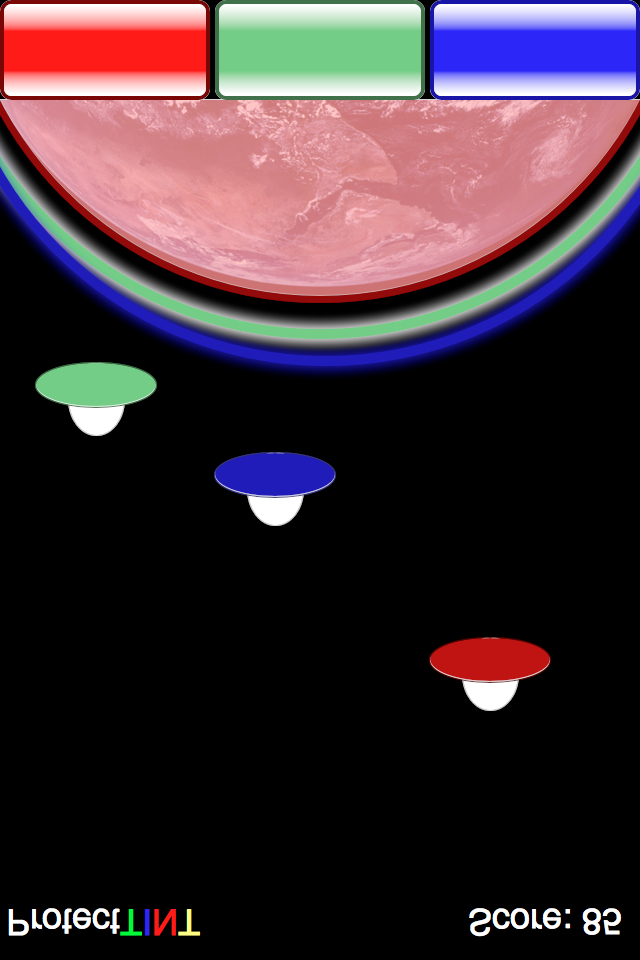
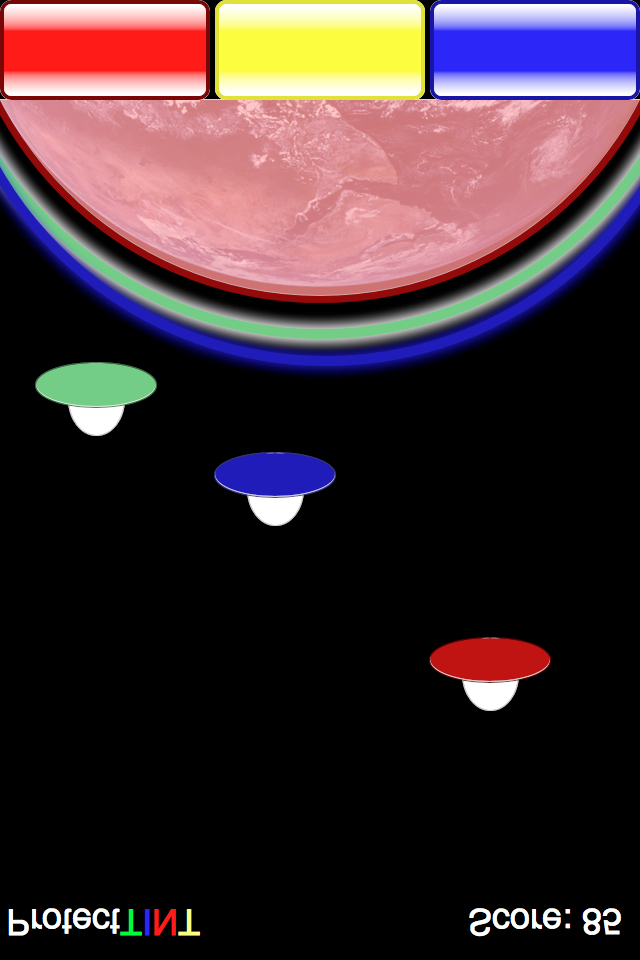
Dapple-style Chording/Color Mixing

Changed region(s): [[0.3125, 0.0, 0.6875, 0.125]]

diff --git a/Classes/GravityBelt.m b/Classes/GravityBelt.m
@@ -12,7 +12,7 @@
 
 @implementation GravityBelt
 
-@synthesize ships, shields, blueButtondown, greenButtondown, redButtondown, currentShield;
+@synthesize ships, shields, blueButtondown, yellowButtondown, redButtondown, currentShield;
 
 -(id)initWithLayer:(CCLayer*)l
 {
@@ -22,7 +22,7 @@
 		layer = l;
 		ships = [[NSMutableArray alloc] init];
 		blueButtondown=NO;
-		greenButtondown=NO;
+		yellowButtondown=NO;
 		redButtondown=NO;
 		currentShield=nil;
 	}
@@ -112,31 +112,26 @@
 -(BOOL)checkForCollision {
 	
 	//Check to see if there is an active shield
-	ShieldSprite *activeShield = (ShieldSprite*) [layer getChildByTag:100];
-	if (activeShield==nil) {
-		activeShield = (ShieldSprite*) [layer getChildByTag:101];
-	}
-	if (activeShield==nil) {
-		activeShield = (ShieldSprite*) [layer getChildByTag:102];
-	}	
-	if (activeShield==nil) {
+	
+	if (self.currentShield==nil) {
 		//TODO: Check for an Earth collision here. but for now we only care about shields
 		return NO;
 	}
 	
-	CGRect targetRect = [self getSpriteBounds:activeShield];
-	NSUInteger value = (activeShield.tag-100);
+	CGRect targetRect = [self getSpriteBounds:self.currentShield];
+	NSUInteger value = (self.currentShield.tag-100);
 	
 	for(NSUInteger i = 0; i < [self.ships count]; i++) {
 		ShipSprite* ship = (ShipSprite*) [self ShipAt:i];
 		CGRect ShipRect = [self getSpriteBounds:ship];
 		
 		if(!CGRectIsNull(CGRectIntersection(targetRect, ShipRect))) {
+			//NSLog(@"Comparing Shield color %d with ship color %d",value, ship.tag);
 			if(ship.tag == value) {
 				[ship stopAllActions];
 				[self removeShip:ship];
 				
-				CGSize contentSize = [activeShield contentSize];
+				CGSize contentSize = [self.currentShield contentSize];
 				
 				id move1 = [CCMoveBy actionWithDuration:0.5 position:ccp(contentSize.width, 0.0)];
 				id delShip = [CCCallFuncN actionWithTarget:self selector:@selector(deleteShip:)];
@@ -159,29 +154,35 @@
 -(void) displayShield {
 	if (self.currentShield) {
 		[layer removeChild:self.currentShield cleanup:YES];
+		self.currentShield=nil;
 	}
-	if (self.greenButtondown && !self.blueButtondown && !self.redButtondown) {
-		[self setCurrentShield:[shields objectAtIndex:kCGreenColor]];
-	} else if (!self.greenButtondown && self.blueButtondown && !self.redButtondown) {
-		[self setCurrentShield:[shields objectAtIndex:kCBlueColor]];
-	} else if (!self.greenButtondown && !self.blueButtondown && self.redButtondown) {
-		[self setCurrentShield:[shields objectAtIndex:kCRedColor]];
-	} else if (!self.greenButtondown && self.blueButtondown && self.redButtondown) {
-		[self setCurrentShield:[shields objectAtIndex:kCPurpleColor]];
-	} else if (self.greenButtondown && self.blueButtondown && !self.redButtondown) {
+	if (self.yellowButtondown && !self.blueButtondown && !self.redButtondown) {
 		[self setCurrentShield:[shields objectAtIndex:kCYellowColor]];
-	} else if (self.greenButtondown && !self.blueButtondown && self.redButtondown) {
+		[layer addChild:self.currentShield z:2 tag:(kCShieldOffset + kCYellowColor)];
+	} else if (!self.yellowButtondown && self.blueButtondown && !self.redButtondown) {
+		[self setCurrentShield:[shields objectAtIndex:kCBlueColor]];
+		[layer addChild:self.currentShield z:2 tag:(kCShieldOffset + kCBlueColor)];
+	} else if (!self.yellowButtondown && !self.blueButtondown && self.redButtondown) {
+		[self setCurrentShield:[shields objectAtIndex:kCRedColor]];
+		[layer addChild:self.currentShield z:2 tag:(kCShieldOffset + kCRedColor)];
+	} else if (!self.yellowButtondown && self.blueButtondown && self.redButtondown) {
+		[self setCurrentShield:[shields objectAtIndex:kCPurpleColor]];
+		[layer addChild:self.currentShield z:2 tag:(kCShieldOffset + kCPurpleColor)];
+	} else if (self.yellowButtondown && self.blueButtondown && !self.redButtondown) {
+		[self setCurrentShield:[shields objectAtIndex:kCGreenColor]];
+		[layer addChild:self.currentShield z:2 tag:(kCShieldOffset + kCGreenColor)];
+	} else if (self.yellowButtondown && !self.blueButtondown && self.redButtondown) {
 		[self setCurrentShield:[shields objectAtIndex:kCOrangeColor]];
+		[layer addChild:self.currentShield z:2 tag:(kCShieldOffset + kCOrangeColor)];
 	} 
-	[layer addChild:self.currentShield];
 }
 
 
 -(void) buttonDownForButton:(NSInteger) button {
 	if (button==kCBlueColor) {
 		self.blueButtondown=YES;
-	} else if (button==kCGreenColor) {
-		self.greenButtondown=YES;
+	} else if (button==kCYellowColor) {
+		self.yellowButtondown=YES;
 	} else if (button==kCRedColor) {
 		self.redButtondown=YES;
 	}
@@ -191,8 +192,8 @@
 -(void) buttonUpForButton:(NSInteger) button {
 	if (button==kCBlueColor) {
 		self.blueButtondown=NO;
-	} else if (button==kCGreenColor) {
-		self.greenButtondown=NO;
+	} else if (button==kCYellowColor) {
+		self.yellowButtondown=NO;
 	} else if (button==kCRedColor) {
 		self.redButtondown=NO;
 	}

diff --git a/Classes/BlueMarbleScene.m b/Classes/BlueMarbleScene.m
@@ -60,7 +60,7 @@
 		CCSprite * earth = [CCSprite spriteWithFile:@"Earth.png"]; [earth setTag:360]; //it's a sphere
 		ButtonSprite * blueButton = [ButtonSprite spriteWithFile:@"BlueButton.png"]; [blueButton setTag:kCBlueColor];
 		ButtonSprite * redButton = [ButtonSprite spriteWithFile:@"RedButton.png"];[redButton setTag:kCRedColor];;
-		ButtonSprite * greenButton = [ButtonSprite spriteWithFile:@"GreenButton.png"];[greenButton setTag:kCGreenColor];;
+		ButtonSprite * yellowButton = [ButtonSprite spriteWithFile:@"YellowButton.png"];[yellowButton setTag:kCYellowColor];;
 		
 		ShieldSprite * blueShield = [ShieldSprite spriteWithFile:@"BlueShield.png"]; [blueShield setTag:(kCShieldOffset + kCBlueColor)];
 		ShieldSprite * redShield = [ShieldSprite spriteWithFile:@"RedShield.png"];[redShield setTag:(kCShieldOffset + kCRedColor)];
@@ -76,7 +76,7 @@
 		earth.position =  ccp( size.width/2 ,  50 /*Button Offset*/ + 48 /*Height of PNG/2 */ );
 		blueButton.position =  ccp(  53.0 , 25);
 		redButton.position =  ccp(  size.width - 53.0, 25);
-		greenButton.position =  ccp( size.width/2 , 25);
+		yellowButton.position =  ccp( size.width/2 , 25);
 		
 		
 		greenShield.position =  ccp( size.width/2 ,  50 /*Button Offset*/ + 48 /*Height of PNG/2 */ );
@@ -98,7 +98,7 @@
 		[self addChild: earth z:-1];
 		[self addChild: blueButton z:1];
 		[self addChild: redButton z:1];
-		[self addChild: greenButton z:1];
+		[self addChild: yellowButton z:1];
 		
 //		id moveDownAction = [CCMoveTo actionWithDuration:2.0f position:ccp(size.width/2, 50.0)];
 //		id blockMoveSeq = [CCSequence actions: moveDownAction, nil];
@@ -112,7 +112,7 @@
 		
 		[blueButton setGbelt:self.gbelt];
 		[redButton setGbelt:self.gbelt];
-		[greenButton setGbelt:self.gbelt];
+		[yellowButton setGbelt:self.gbelt];
 		
 		[self.gbelt setShields:[NSMutableArray arrayWithObjects:blueShield, greenShield, redShield, purpleShield, yellowShield, orangeShield, nil]];
 		[self.gbelt addShip];

diff --git a/Classes/GravityBelt.h b/Classes/GravityBelt.h
@@ -16,7 +16,7 @@
 	NSMutableArray *shields;
 	BOOL blueButtondown;
 	BOOL redButtondown;
-	BOOL greenButtondown;
+	BOOL yellowButtondown;
 	ShieldSprite *currentShield;
 }
 
@@ -25,7 +25,7 @@
 @property (nonatomic, retain) ShieldSprite *currentShield;
 @property (nonatomic, readwrite) BOOL blueButtondown;
 @property (nonatomic, readwrite) BOOL redButtondown;
-@property (nonatomic, readwrite) BOOL greenButtondown;
+@property (nonatomic, readwrite) BOOL yellowButtondown;
 
 -(id)initWithLayer:(CCLayer*)l;
 
